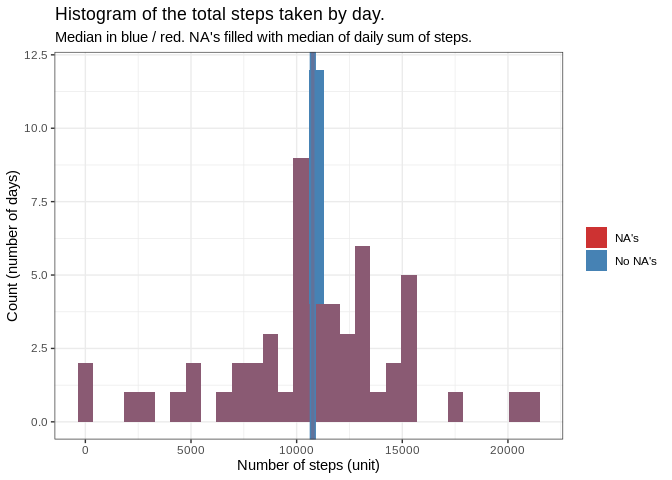
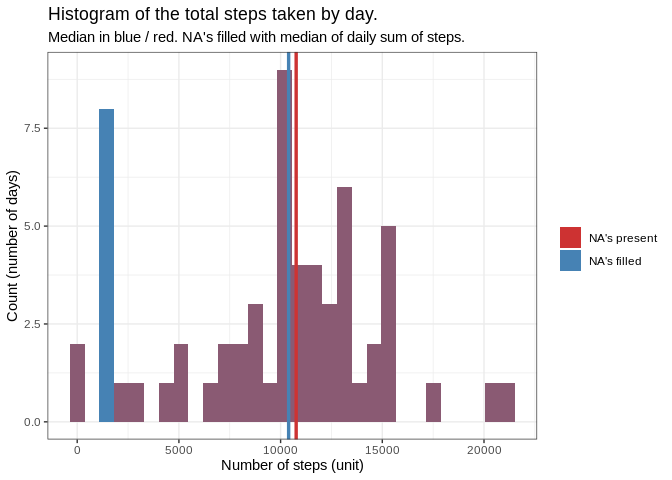
Files and figures for the second submission

diff --git a/PA1_template.html b/PA1_template.html
@@ -383,8 +383,10 @@ $(document).ready(function () {
 <p>The file “activity.zip” was originally from <a href="https://d396qusza40orc.cloudfront.net/repdata%2Fdata%2Factivity.zip">this url</a>.</p>
 <div id="loading-and-preprocessing-the-data" class="section level2">
 <h2>Loading and preprocessing the data</h2>
-<p>We start by unzipping the file and loading the csv file within.</p>
-<pre class="r"><code>unzip(&quot;activity.zip&quot;)
+<p>We start by downloading &amp; unzipping the file and loading the csv file within.</p>
+<pre class="r"><code>download.file(&quot;https://d396qusza40orc.cloudfront.net/repdata%2Fdata%2Factivity.zip&quot;, 
+              destfile = &quot;activity.zip&quot;)
+unzip(&quot;activity.zip&quot;)
 act_raw &lt;- read.csv(&quot;activity.csv&quot;)</code></pre>
 <p>We then take a look on what’s inside:</p>
 <pre class="r"><code>str(act_raw); summary(act_raw)</code></pre>
@@ -504,19 +506,25 @@ g1</code></pre>
 <h2>Imputing missing values</h2>
 <p>From the previous exploration, we can see many variations in term of values<br />
 during one day, it makes more sense to me to replace the NA’s with the mean<br />
-or median of their <strong>interval</strong> across all days.</p>
-<p>If we take a look at the standard deviations of each interval group, we can<br />
-also see that they sometimes go pretty high, further encouraging the use of<br />
-the median to be as representative as possible of an “average day”.</p>
-<p>For this, we will use the previously created <strong>df_by_day</strong> data frame.<br />
-df_by_day contains exactly 61 lines, one per day, along with the<br />
-matching sum of steps (or NA) in the variable steps_by_day. We will simply<br />
-transform the NA’s into the median of the steps_by_day variable.</p>
-<pre class="r"><code>df_by_day_compl &lt;- transform(df_by_day, 
-                       steps_by_day = ifelse(is.na(steps_by_day),
-                                             median(steps_by_day, na.rm = T),
-                                             steps_by_day))
-df_by_day_compl &lt;- df_by_day_compl[,-3]</code></pre>
+or median of a whole group (day or interval).</p>
+<p>If we take a look at the standard deviations of each <strong>interval</strong> group (cf.<br />
+df_inter dataframe), we can also see that they sometimes go pretty high, further encouraging the use of the median to be as representative as possible<br />
+of an “average day”.</p>
+<p>For these reasons, we will replace the values with the median of the<br />
+corresponding interval.</p>
+<p>For this, we will use the previously created <strong>df_inter</strong> data frame.<br />
+df_inter contains exactly 288 lines, one per interval, along with the<br />
+matching mean and median of steps. We will simply transform the NA’s<br />
+into the median of the corresponding interval.</p>
+<pre class="r"><code>act_compl &lt;- merge(act_pro, df_inter,sort = F) 
+act_compl &lt;- transform(act_compl, 
+                       steps= ifelse(is.na(steps), 
+                                           median_by_interval,
+                                           steps))
+act_compl &lt;- act_compl[order(act_compl$date, act_compl$interval),]
+df_by_day_compl &lt;- act_compl %&gt;% group_by(date) %&gt;% 
+        summarise(steps_by_day = sum(steps, na.rm = F),
+                  nb_NA = sum(is.na(steps)))</code></pre>
 <p>Then we can construct the plot:</p>
 <pre class="r"><code>hist2 &lt;- ggplot()+
         geom_histogram(data = df_by_day_compl, aes(steps_by_day, fill = &quot;steelblue&quot;)) +
@@ -526,9 +534,9 @@ df_by_day_compl &lt;- df_by_day_compl[,-3]</code></pre>
         labs(title = &quot;Histogram of the total steps taken by day.&quot;,
              subtitle = &quot;Median in blue / red. NA&#39;s filled with median of daily sum of steps.&quot;)+
         geom_vline(xintercept = median(df_by_day_compl$steps_by_day),
-                   color = &quot;steelblue&quot;, lwd = 2.2)+ 
+                   color = &quot;steelblue&quot;, lwd = 1.2)+ 
         geom_vline(xintercept = median(df_by_day$steps_by_day, na.rm = T),
-                   color = &quot;brown3&quot;, lwd = 1.2, alpha = 0.5)+
+                   color = &quot;brown3&quot;, lwd = 1.2)+
         scale_fill_manual(values = c(&quot;brown3&quot;, &quot;steelblue&quot;), labels = c( &quot;NA&#39;s present&quot;, &quot;NA&#39;s filled&quot;),
                           name = NULL) +
         theme_bw()
@@ -536,17 +544,18 @@ hist2</code></pre>
 <pre><code>## `stat_bin()` using `bins = 30`. Pick better value with `binwidth`.
 ## `stat_bin()` using `bins = 30`. Pick better value with `binwidth`.</code></pre>
 <pre><code>## Warning: Removed 8 rows containing non-finite values (stat_bin).</code></pre>
[2 lines of base64/hex data omitted]
 <p>If we take a look at the histograms, we can see that filling the NA’s with<br />
-“basic” approaches such as means or medians tend to centralize data, hence<br />
-eventually skewing group tendencies by pulling the 1st and 3rd quartiles<br />
-towards the median.</p>
+“basic” approaches such as means or medians tend to modify the repartition of<br />
+the data. Here we can see that since the median is often 0, the sum of those<br />
+data create a new and fairly low group (all 8 days are of course in the same<br />
+group).</p>
 <p>The histogram shows that the corrected and uncorrected datasets overlap on all<br />
-but one column which is the one where the median(s) are.</p>
+but one column, the one with the NA values.</p>
 <p>It becomes more obvious when we look at the summary with NA replaced:</p>
 <pre class="r"><code>summary(df_by_day_compl$steps_by_day)</code></pre>
 <pre><code>##    Min. 1st Qu.  Median    Mean 3rd Qu.    Max. 
-##      41    9819   10765   10766   12811   21194</code></pre>
+##      41    6778   10395    9504   12811   21194</code></pre>
 <p>… in comparaison with the original values (see above) with NA’s:</p>
 <pre class="r"><code>summary(df_by_day$steps_by_day)</code></pre>
 <pre><code>##    Min. 1st Qu.  Median    Mean 3rd Qu.    Max.    NA&#39;s 

diff --git a/PA1_template.md b/PA1_template.md
@@ -8,9 +8,11 @@ output:
 The file "activity.zip" was originally from [this url](https://d396qusza40orc.cloudfront.net/repdata%2Fdata%2Factivity.zip).
 
 ## Loading and preprocessing the data
-We start by unzipping the file and loading the csv file within.
+We start by downloading & unzipping the file and loading the csv file within.
 
 ```r
+download.file("https://d396qusza40orc.cloudfront.net/repdata%2Fdata%2Factivity.zip", 
+              destfile = "activity.zip")
 unzip("activity.zip")
 act_raw <- read.csv("activity.csv")
 ```
@@ -103,7 +105,7 @@ hist1 <- qplot(steps_by_day, data = df_by_day, binwidth = 1000)+
 ## Warning: Removed 8 rows containing non-finite values (stat_bin).
 ```
 
-![](PA1_template_files/figure-html/unnamed-chunk-44-1.png)<!-- -->
+![](PA1_template_files/figure-html/unnamed-chunk-7-1.png)<!-- -->
 
 A quick call to summary will tell us more about the mean and median.
 
@@ -183,29 +185,37 @@ g1 <- ggplot(df_inter, aes(as.numeric(paste(interval)), mean_by_interval))+
 g1
 ```
 
-![](PA1_template_files/figure-html/unnamed-chunk-48-1.png)<!-- -->
+![](PA1_template_files/figure-html/unnamed-chunk-11-1.png)<!-- -->
 
 ## Imputing missing values
 From the previous exploration, we can see many variations in term of values  
 during one day, it makes more sense to me to replace the NA's with the mean  
-or median of their **interval** across all days.  
+or median of a whole group (day or interval).  
   
-If we take a look at the standard deviations of each interval group, we can  
-also see that they sometimes go pretty high, further encouraging the use of  
-the median to be as representative as possible of an "average day".
+If we take a look at the standard deviations of each **interval** group (cf.  
+df_inter dataframe), we can also see that they sometimes go pretty high, 
+further encouraging the use of the median to be as representative as possible  
+of an "average day".
 
-For this, we will use the previously created **df_by_day** data frame.  
-df_by_day contains exactly 61 lines, one per day, along with the  
-matching sum of steps (or NA) in the variable steps_by_day. We will simply  
-transform the NA's into the median of the steps_by_day variable.
+For these reasons, we will replace the values with the median of the  
+corresponding interval.
+
+For this, we will use the previously created **df_inter** data frame.  
+df_inter contains exactly 288 lines, one per interval, along with the  
+matching mean and median of steps. We will simply transform the NA's  
+into the median of the corresponding interval.
 
 
 ```r
-df_by_day_compl <- transform(df_by_day, 
-                       steps_by_day = ifelse(is.na(steps_by_day),
-                                             median(steps_by_day, na.rm = T),
-                                             steps_by_day))
-df_by_day_compl <- df_by_day_compl[,-3]
+act_compl <- merge(act_pro, df_inter,sort = F) 
+act_compl <- transform(act_compl, 
+                       steps= ifelse(is.na(steps), 
+                                           median_by_interval,
+                                           steps))
+act_compl <- act_compl[order(act_compl$date, act_compl$interval),]
+df_by_day_compl <- act_compl %>% group_by(date) %>% 
+        summarise(steps_by_day = sum(steps, na.rm = F),
+                  nb_NA = sum(is.na(steps)))
 ```
   
 Then we can construct the plot:
@@ -219,9 +229,9 @@ hist2 <- ggplot()+
         labs(title = "Histogram of the total steps taken by day.",
              subtitle = "Median in blue / red. NA's filled with median of daily sum of steps.")+
         geom_vline(xintercept = median(df_by_day_compl$steps_by_day),
-                   color = "steelblue", lwd = 2.2)+ 
+                   color = "steelblue", lwd = 1.2)+ 
         geom_vline(xintercept = median(df_by_day$steps_by_day, na.rm = T),
-                   color = "brown3", lwd = 1.2, alpha = 0.5)+
+                   color = "brown3", lwd = 1.2)+
         scale_fill_manual(values = c("brown3", "steelblue"), labels = c( "NA's present", "NA's filled"),
                           name = NULL) +
         theme_bw()
@@ -237,15 +247,16 @@ hist2
 ## Warning: Removed 8 rows containing non-finite values (stat_bin).
 ```
 
-![](PA1_template_files/figure-html/unnamed-chunk-50-1.png)<!-- -->
+![](PA1_template_files/figure-html/unnamed-chunk-13-1.png)<!-- -->
   
 If we take a look at the histograms, we can see that filling the NA's with  
-"basic" approaches such as means or medians tend to centralize data, hence  
-eventually skewing group tendencies by pulling the 1st and 3rd quartiles  
-towards the median.  
+"basic" approaches such as means or medians tend to modify the repartition of  
+the data. Here we can see that since the median is often 0, the sum of those  
+data create a new and fairly low group (all 8 days are of course in the same  
+group). 
   
 The histogram shows that the corrected and uncorrected datasets overlap on all  
-but one column which is the one where the median(s) are.
+but one column, the one with the NA values.
 
 It becomes more obvious when we look at the summary with NA replaced:
 
@@ -255,7 +266,7 @@ summary(df_by_day_compl$steps_by_day)
 
 ```
 ##    Min. 1st Qu.  Median    Mean 3rd Qu.    Max. 
-##      41    9819   10765   10766   12811   21194
+##      41    6778   10395    9504   12811   21194
 ```
 ... in comparaison with the original values (see above) with NA's:
 
@@ -310,7 +321,7 @@ g2 <- act_pro %>%
 g2
 ```
 
-![](PA1_template_files/figure-html/unnamed-chunk-54-1.png)<!-- -->
+![](PA1_template_files/figure-html/unnamed-chunk-17-1.png)<!-- -->
   
 We have a clear answer here: There **IS** a rather evident shift in activity pattern  
 between weekdays and weekend. The activity is shifted towards higher Interval  
